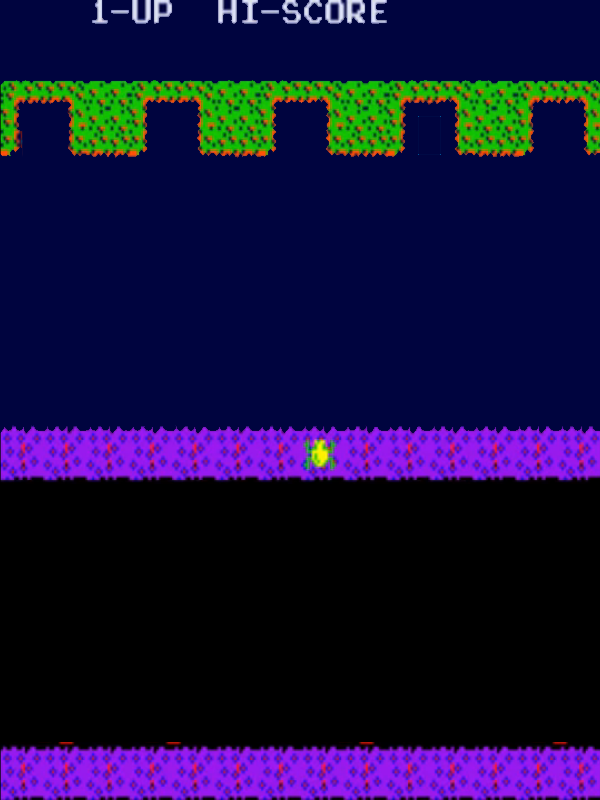
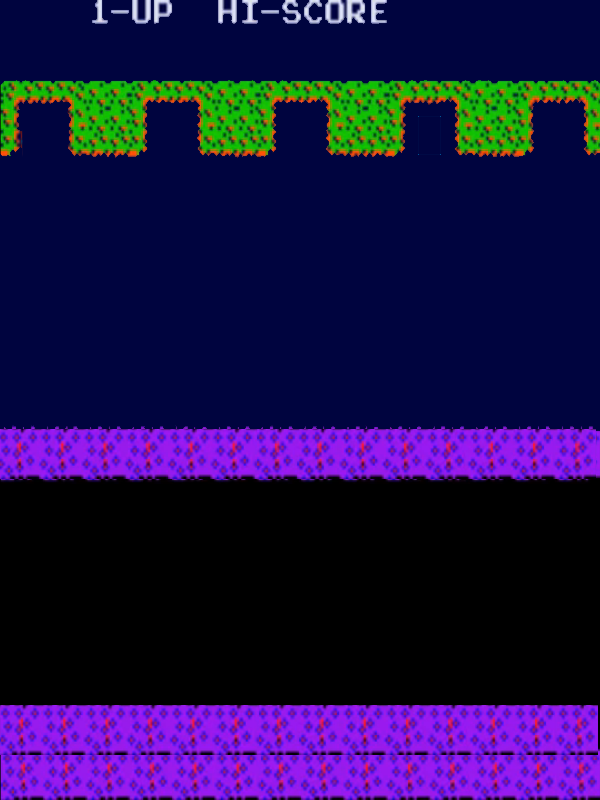
change new level

Changed region(s): [[0.0, 0.875, 1.0, 0.9688], [0.0, 0.5312, 1.0, 0.625]]

diff --git a/Level2.java b/Level2.java
@@ -3,166 +3,63 @@ package p4_group_8_repo;
 import java.io.BufferedReader;
 import java.io.BufferedWriter;
 import java.io.File;
-import java.io.FileInputStream;
-import java.io.FileNotFoundException;
 import java.io.FileReader;
 import java.io.FileWriter;
 import java.io.IOException;
-import java.io.InputStream;
 import java.util.ArrayList;
 import java.util.Collections;
-import java.util.List;
-import java.util.Scanner;
 
 import javafx.animation.AnimationTimer;
-import javafx.application.Application;
-import javafx.application.Platform;
-import javafx.geometry.Pos;
-import javafx.scene.Group;
 import javafx.scene.Scene;
 import javafx.scene.control.Alert;
 import javafx.scene.control.Alert.AlertType;
-import javafx.scene.media.Media;
-import javafx.scene.media.MediaPlayer;
-import javafx.scene.text.Font;
-import javafx.scene.text.Text;
-import javafx.stage.Stage;
-import javafx.util.Duration;
-
-//MainMenu
-import javafx.application.Application;
-
-import javafx.scene.Scene;
-import javafx.scene.control.Button;
-import javafx.scene.image.Image;
-import javafx.scene.image.ImageView;
-import javafx.scene.layout.Background;
-import javafx.scene.layout.BackgroundFill;
-import javafx.scene.layout.BackgroundPosition;
-import javafx.scene.layout.BackgroundRepeat;
-import javafx.scene.layout.BackgroundSize;
-import javafx.scene.layout.HBox;
-import javafx.scene.layout.Pane;
-import javafx.scene.layout.VBox;
-import javafx.scene.paint.Color;
 import javafx.stage.Stage;
 
-public class Main extends Application {
-	AnimationTimer timer;
-	MyStage background;
+public class Level2 {
+
+	MyStage background2;
 	Animal animal;
-	Number num;
+	AnimationTimer timer;
 	
-	public void start(Stage primaryStage) throws Exception {
+	public void lvl2(Stage primaryStage2) throws Exception{
 		
-		background = new MyStage();
-		Scene scene  = new Scene(background,600,800);//Frogger Game
+		background2 = new MyStage();
+		Scene scene2  = new Scene(background2,600,800);//Frogger Game
 		
-		  //Menu background image
-		  Image image1 = new Image("file:src/p4_group_8_repo/mainmenubg.png", 600, 800, true, true);
-		  //Creating the image view
-	      ImageView imageView1 = new ImageView();
-	    //Setting image to the image view
-	      imageView1.setImage(image1);
-	    //Setting the image view parameters
-	      imageView1.setX(10);
-	      imageView1.setY(10);
-	      imageView1.setFitWidth(600);
-	      imageView1.setFitHeight(800);
-	      imageView1.setPreserveRatio(true);
-	      //Setting the Scene object
-	      Group root1 = new Group(imageView1);
-		  
-		  //Manual Image
-	      Image image = new Image("file:src/p4_group_8_repo/manual.png", 600, 800, true, true);
-	      //Creating the image view
-	      ImageView imageView = new ImageView();
-	      //Setting image to the image view
-	      imageView.setImage(image);
-	      //Setting the image view parameters
-	      imageView.setX(10);
-	      imageView.setY(10);
-	      imageView.setFitWidth(575);
-	      imageView.setPreserveRatio(true);
-	      //Setting the Scene object
-	      Group root = new Group(imageView);
-	      
-	      Scene manualscene = new Scene(root);
-	   	  
-	      
-	  //Main Menu 
-			Pane mainMenuRoot = new Pane();			
-			
-			//River level button
-	  		Button btnstart = new Button("River Level");
-	  		btnstart.setTranslateX(150);
-	  	    btnstart.setTranslateY(-77);
-	  	    btnstart.setOnMouseClicked(event -> { 
-	  			primaryStage.setScene(scene);
-	  			background.start();
-	  			start();
-	  	    });
-	  	    
-	  	//Sky level button
-	  		Button btnstart2 = new Button("Sky Level");
-	  		btnstart2.setTranslateX(270);
-	  	    btnstart2.setTranslateY(-123);
-	  	    btnstart2.setOnMouseClicked(event -> { 
-	  			primaryStage.setScene(scene);
-	  			background.start();
-	  			start();
-	  	    });
-	  	    
-	  //Manual Button
-	  	    Button btnmanual = new Button("How to Play?");
-	  	    btnmanual.setTranslateX(5);
-	  	    btnmanual.setTranslateY(-147);
-	  	    btnmanual.setOnMouseClicked(event ->{
-	  	    	
-	  	    	primaryStage.setScene(manualscene);
-	  	    	primaryStage.show();
-	  	    });
-	  	    
-	  	    
-	  //Exit Button
-	  	  Button btnexit = new Button("Exit!");
-	  	  btnexit.setTranslateX(555);
-	  	  btnexit.setTranslateY(-193);
-	  	  btnexit.setOnAction(event -> System.exit(0));
-	  	  
-	  	  VBox layout1 = new VBox(20); 
-	  	  layout1.getChildren().addAll(root1, btnstart, btnstart2,  btnmanual, btnexit);
-	  	  Scene menuscene = new Scene(layout1,600,330); // Game Menu
-	  	  
-		//Obstacle obstacle = new Obstacle("file:src/p4_group_8_repo/truck1Right.png", 25, 25, 3);
-		//Obstacle obstacle1 = new Obstacle("file:src/p4_group_8_repo/truck2Right.png", 100, 100,2 );
-		//Obstacle obstacle2 = new Obstacle("file:src/p4_group_8_repo/truck1Right.png",0,  150, 1);
-	  	  
-		BackgroundImage froggerback = new BackgroundImage("file:src/p4_group_8_repo/arcade1.png");
+		primaryStage2.setScene(scene2);
+		background2.start();
+		start();
+		
+		
+		
+		BackgroundImage froggerback2 = new BackgroundImage("file:src/p4_group_8_repo/Lvl2.png");
 	    
 		
-		background.add(froggerback);
+		background2.add(froggerback2);
 		
 		
 		
-		background.add(new Log("file:src/p4_group_8_repo/log3.png", 150, 0, 166, 0.75));
-		background.add(new Log("file:src/p4_group_8_repo/log3.png", 150, 220, 166, 0.75));
-		background.add(new Log("file:src/p4_group_8_repo/log3.png", 150, 440, 166, 0.75));
+		background2.add(new Log("file:src/p4_group_8_repo/Bird2-right.PNG", 150, 0, 166, 0.75));
+		background2.add(new Log("file:src/p4_group_8_repo/Bird2-right.PNG", 150, 220, 166, 0.75));
+		background2.add(new Log("file:src/p4_group_8_repo/Bird2-right.PNG", 150, 440, 166, 0.75));
 		//background.add(new Log("file:src/p4_group_8_repo/log3.png", 150, 0, 166, 0.75));
-		background.add(new Log("file:src/p4_group_8_repo/logs.png", 300, 0, 276, -2));
-		background.add(new Log("file:src/p4_group_8_repo/logs.png", 300, 400, 276, -2));
+		background2.add(new Log("file:src/p4_group_8_repo/Bird1- right.png", 300, 0, 276, -2));
+		background2.add(new Log("file:src/p4_group_8_repo/Bird1- right.png", 300, 400, 276, -2));
 		//background.add(new Log("file:src/p4_group_8_repo/logs.png", 300, 800, 276, -2));
-		background.add(new Log("file:src/p4_group_8_repo/log3.png", 150, 50, 329, 0.75));
-		background.add(new Log("file:src/p4_group_8_repo/log3.png", 150, 270, 329, 0.75));
-		background.add(new Log("file:src/p4_group_8_repo/log3.png", 150, 490, 329, 0.75));
+		background2.add(new Log("file:src/p4_group_8_repo/Birds2-right.PNG", 150, 50, 329, 0.75));
+		background2.add(new Log("file:src/p4_group_8_repo/Birds2-right.PNG", 150, 270, 329, 0.75));
+		background2.add(new Log("file:src/p4_group_8_repo/Birds2-right.PNG", 150, 490, 329, 0.75));
 		//background.add(new Log("file:src/p4_group_8_repo/log3.png", 150, 570, 329, 0.75));
 		
-		background.add(new Turtle(500, 376, -1, 130, 130));
-		background.add(new Turtle(300, 376, -1, 130, 130));
-		background.add(new WetTurtle(700, 376, -1, 130, 130));
-		background.add(new WetTurtle(600, 217, -1, 130, 130));
-		background.add(new WetTurtle(400, 217, -1, 130, 130));
-		background.add(new WetTurtle(200, 217, -1, 130, 130));
+		/*
+		background2.add(new Turtle(500, 376, -1, 130, 130));
+		background2.add(new Turtle(300, 376, -1, 130, 130));
+		background2.add(new WetTurtle(700, 376, -1, 130, 130));
+		background2.add(new WetTurtle(600, 217, -1, 130, 130));
+		background2.add(new WetTurtle(400, 217, -1, 130, 130));
+		background2.add(new WetTurtle(200, 217, -1, 130, 130));
+		*/
+		
 		//background.add(new Log("file:src/p4_group_8_repo/log2.png", 200, 100, 1));
 		//background.add(new Log("file:src/p4_group_8_repo/log2.png", 0, 100, 1));
 		//background.add(new Log("file:src/p4_group_8_repo/log2.png", 100, 120, -1));
@@ -182,40 +79,31 @@ public class Main extends Application {
 		//End end3 = new End();
 		//End end4 = new End();
 		//End end5 = new End();
-		background.add(new End(13,96));
-		background.add(new End(141,96));
-		background.add(new End(141 + 141-13,96));
-		background.add(new End(141 + 141-13+141-13+1,96));
-		background.add(new End(141 + 141-13+141-13+141-13+3,96));
+		background2.add(new End(13,96));
+		background2.add(new End(141,96));
+		background2.add(new End(141 + 141-13,96));
+		background2.add(new End(141 + 141-13+141-13+1,96));
+		background2.add(new End(141 + 141-13+141-13+141-13+3,96));
 		animal = new Animal("file:src/p4_group_8_repo/froggerUp.png");
-		background.add(animal);
-		background.add(new Obstacle("file:src/p4_group_8_repo/truck1"+"Right.png", 0, 649, 1, 120, 120));
-		background.add(new Obstacle("file:src/p4_group_8_repo/truck1"+"Right.png", 300, 649, 1, 120, 120));
-		background.add(new Obstacle("file:src/p4_group_8_repo/truck1"+"Right.png", 600, 649, 1, 120, 120));
+		background2.add(animal);
+		background2.add(new Obstacle("file:src/p4_group_8_repo/truck1"+"Right.png", 0, 649, 1, 120, 120));
+		background2.add(new Obstacle("file:src/p4_group_8_repo/truck1"+"Right.png", 300, 649, 1, 120, 120));
+		background2.add(new Obstacle("file:src/p4_group_8_repo/truck1"+"Right.png", 600, 649, 1, 120, 120));
 		//background.add(new Obstacle("file:src/p4_group_8_repo/truck1"+"Right.png", 720, 649, 1, 120, 120));
-		background.add(new Obstacle("file:src/p4_group_8_repo/car1Left.png", 100, 597, -1, 50, 50));
-		background.add(new Obstacle("file:src/p4_group_8_repo/car1Left.png", 250, 597, -1, 50, 50));
-		background.add(new Obstacle("file:src/p4_group_8_repo/car1Left.png", 400, 597, -1, 50, 50));
-		background.add(new Obstacle("file:src/p4_group_8_repo/car1Left.png", 550, 597, -1, 50, 50));
-		background.add(new Obstacle("file:src/p4_group_8_repo/truck2Right.png", 0, 540, 1, 200, 200));
-		background.add(new Obstacle("file:src/p4_group_8_repo/truck2Right.png", 500, 540, 1, 200, 200));
-		background.add(new Obstacle("file:src/p4_group_8_repo/car1Left.png", 500, 490, -5, 50, 50));
-		background.add(new Digit(0, 30, 360, 25));
+		background2.add(new Obstacle("file:src/p4_group_8_repo/car1Left.png", 100, 597, -1, 50, 50));
+		background2.add(new Obstacle("file:src/p4_group_8_repo/car1Left.png", 250, 597, -1, 50, 50));
+		background2.add(new Obstacle("file:src/p4_group_8_repo/car1Left.png", 400, 597, -1, 50, 50));
+		background2.add(new Obstacle("file:src/p4_group_8_repo/car1Left.png", 550, 597, -1, 50, 50));
+		background2.add(new Obstacle("file:src/p4_group_8_repo/truck2Right.png", 0, 540, 1, 200, 200));
+		background2.add(new Obstacle("file:src/p4_group_8_repo/truck2Right.png", 500, 540, 1, 200, 200));
+		background2.add(new Obstacle("file:src/p4_group_8_repo/car1Left.png", 500, 490, -5, 50, 50));
+		background2.add(new Digit(0, 30, 360, 25));
 		
 		
 		//background.add(obstacle);
 		//background.add(obstacle1);
 		//background.add(obstacle2);
-		
-		primaryStage.setScene(menuscene);
-		primaryStage.show();
-		//start();
 	}
-	
-	/*catch (Exception e) { 
-		  
-        System.out.println(e.getMessage()); 
-    } */
 	
 	public void createTimer() {
 		timer = new AnimationTimer() {
@@ -236,9 +124,9 @@ public class Main extends Application {
 	        	
 	        	if (animal.getStop()) {
 	        		System.out.print("STOPP:");
-	        		background.stopMusic();
+	        		background2.stopMusic();
 	        		stop();
-	        		background.stop();
+	        		background2.stop();
 	        		}
 	        		/*
 	        		Alert alert = new Alert(AlertType.INFORMATION);
@@ -372,10 +260,8 @@ public class Main extends Application {
 	                String currentLine = reader1.readLine();          
 	                while (currentLine != null)
 	                {
-	                	for(int i = 0; i < 5; i++) {
 	                    lines1.add(currentLine);
 	                    currentLine = reader1.readLine();
-	                	}
 	                }
 	        	Alert alert = new Alert(AlertType.INFORMATION);
 	    		alert.setTitle("You Have Won The Game!");
@@ -394,34 +280,26 @@ public class Main extends Application {
 		
     }
 	
-	//public void start:
 	public void start() {
-		background.playMusic();
+		background2.playMusic();
     	createTimer();
         timer.start();
     }
-
 	
-	
-    public void stop(Stop gameover) {
-        //timer.stop();
-    	gameover.stopgame();
-    }
-    
-	
-    public void setNumber(int i) {
-    	int shift = 0;
-    	while (i > 0) {
-    		  int d = i / 10;
-    		  int k = i - d * 10;
-    		  i = d;
-    		  background.add(new Digit(k, 30, 360 - shift, 25));
-    		  shift+=30;
-    		}
-    }
-    
-    public static void main(String[] args) {
-		launch(args);
-	}
-    
+	 public void stop(Stop gameover) {
+	        //timer.stop();
+	    	gameover.stopgame();
+	    }
+	    
+		
+	    public void setNumber(int i) {
+	    	int shift = 0;
+	    	while (i > 0) {
+	    		  int d = i / 10;
+	    		  int k = i - d * 10;
+	    		  i = d;
+	    		  background2.add(new Digit(k, 30, 360 - shift, 25));
+	    		  shift+=30;
+	    		}
+	    }
 }
